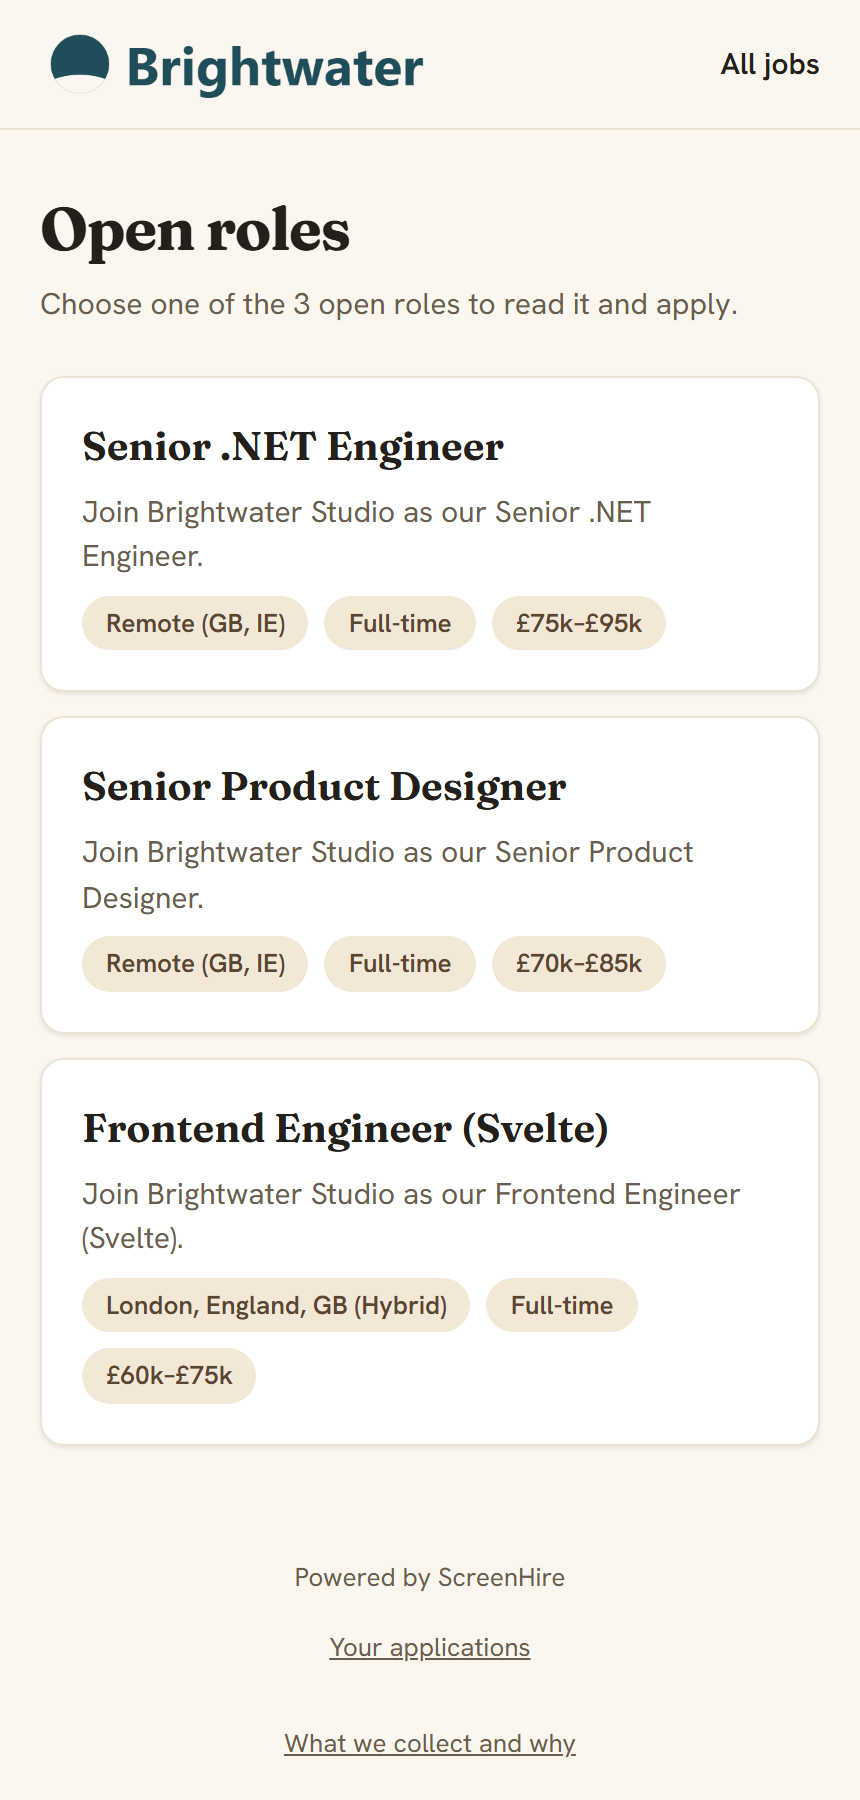
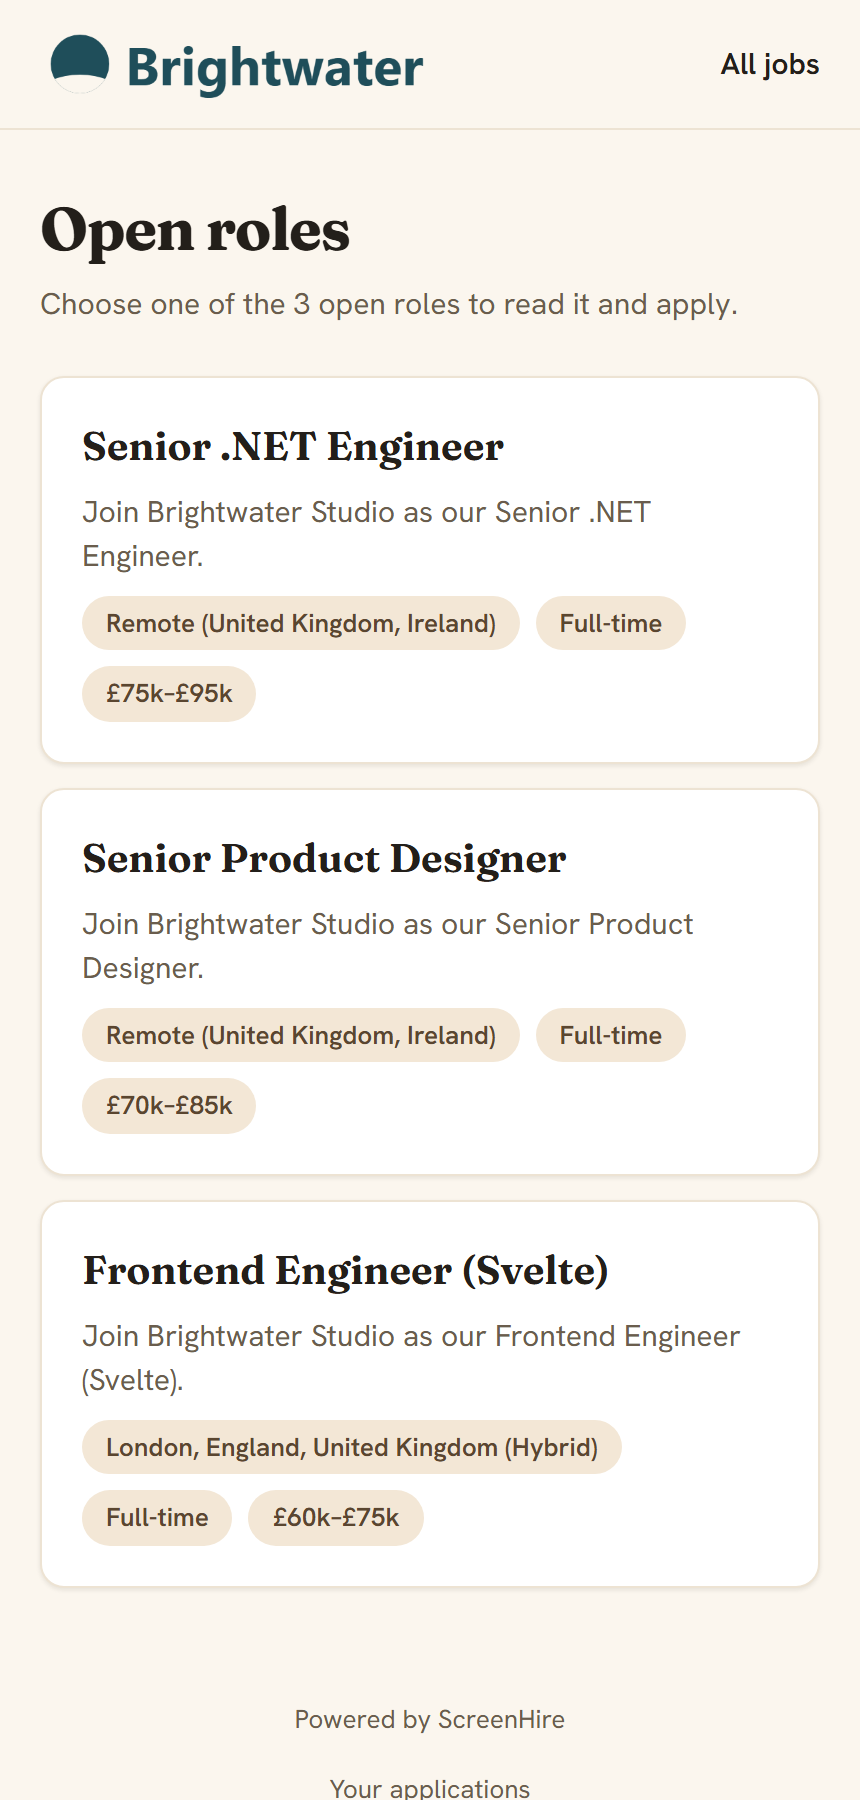
feat(jobs): show a country as a name, not a code, wherever a location is written
JobLocation's label and the feeds share CountryNames, which reads .NET's RegionInfo
English names. Regions stay as given, an unknown code stays a code, and structured
data (JSON-LD, feed country fields) keeps the ISO code. Fixtures, tests, the design
system's example and the marketing pictures that show a location are updated.

Changed region(s): [[0.0302, 0.3111, 0.9674, 0.8089], [0.3326, 0.84, 0.6651, 1.0], [0.1209, 0.84, 0.2419, 0.8711]]

diff --git a/apps/careers/src/lib/format.test.ts b/apps/careers/src/lib/format.test.ts
@@ -47,23 +47,23 @@ describe('formatSalary', () => {
 });
 
 describe('jobFacts', () => {
-  const job = { location: 'London, England, GB', workplaceType: 'Hybrid', employmentType: 'FullTime', salaryMin: 60_000, salaryMax: 75_000, salaryCurrency: 'GBP' };
+  const job = { location: 'London, England, United Kingdom', workplaceType: 'Hybrid', employmentType: 'FullTime', salaryMin: 60_000, salaryMax: 75_000, salaryCurrency: 'GBP' };
 
   it('lists place, contract and pay, in that order, and never more than three', () => {
-    expect(jobFacts(job)).toEqual(['London, England, GB (Hybrid)', 'Full-time', '£60k–£75k']);
+    expect(jobFacts(job)).toEqual(['London, England, United Kingdom (Hybrid)', 'Full-time', '£60k–£75k']);
     expect(jobFacts(job).length).toBeLessThanOrEqual(3);
   });
 
   it('leaves the pay out when there is none', () => {
-    expect(jobFacts({ ...job, salaryMin: null, salaryMax: null })).toEqual(['London, England, GB (Hybrid)', 'Full-time']);
+    expect(jobFacts({ ...job, salaryMin: null, salaryMax: null })).toEqual(['London, England, United Kingdom (Hybrid)', 'Full-time']);
   });
 
   it('names an on-site job by its address alone', () => {
-    expect(jobFacts({ ...job, workplaceType: 'Onsite' })).toEqual(['London, England, GB', 'Full-time', '£60k–£75k']);
+    expect(jobFacts({ ...job, workplaceType: 'Onsite' })).toEqual(['London, England, United Kingdom', 'Full-time', '£60k–£75k']);
   });
 
   it('does not say remote twice when the location already does', () => {
-    expect(jobFacts({ ...job, location: 'Remote (GB, IE)', workplaceType: 'Remote' })).toEqual(['Remote (GB, IE)', 'Full-time', '£60k–£75k']);
+    expect(jobFacts({ ...job, location: 'Remote (United Kingdom, Ireland)', workplaceType: 'Remote' })).toEqual(['Remote (United Kingdom, Ireland)', 'Full-time', '£60k–£75k']);
   });
 
   it('keeps the workplace type in the place when the location does not name it', () => {

diff --git a/apps/careers/src/components/job-card.test.ts b/apps/careers/src/components/job-card.test.ts
@@ -13,7 +13,7 @@ beforeAll(async () => {
 const job = {
   title: 'Service plumber',
   summary: 'Fix leaks, service boilers and fit bathrooms for homes across Leeds.',
-  location: 'Leeds, England, GB',
+  location: 'Leeds, England, United Kingdom',
   workplaceType: 'Onsite',
   employmentType: 'FullTime',
   salaryMin: 34_000,
@@ -32,7 +32,7 @@ describe('JobCard', () => {
     expect(html).toContain('href="/brightwater/jobs/service-plumber"');
     const title = html.indexOf('Service plumber');
     const summary = html.indexOf('Fix leaks, service boilers');
-    const firstChip = html.indexOf('Leeds, England, GB</span>');
+    const firstChip = html.indexOf('Leeds, England, United Kingdom</span>');
     expect(title).toBeGreaterThan(-1);
     expect(summary).toBeGreaterThan(title);
     expect(firstChip).toBeGreaterThan(summary);
@@ -55,7 +55,7 @@ describe('JobCard', () => {
     const html = await render({ workplaceType: 'Hybrid' });
 
     const chips = [...html.matchAll(/<span class="[^"]*\bbg-candidate-chip\b[^"]*">([^<]*)<\/span>/g)].map((match) => match[1]);
-    expect(chips).toEqual(['Leeds, England, GB (Hybrid)', 'Full-time', '£34k–£40k']);
+    expect(chips).toEqual(['Leeds, England, United Kingdom (Hybrid)', 'Full-time', '£34k–£40k']);
   });
 
   it('draws no summary line when the job has none', async () => {

diff --git a/apps/dashboard/src/routes/(app)/jobs-page.test.ts b/apps/dashboard/src/routes/(app)/jobs-page.test.ts
@@ -54,7 +54,7 @@ describe('jobs page', () => {
       // A count or a date that never arrived (nothing here answers the applications request) is blank, and says nothing to
       // a screen reader either: "No candidates" would claim what nobody knows.
       ['Draft', 'Customer Success Lead', '', '', 'Manchester, UK', 'Full-time', 'Oct 19, 2026', ''],
-      ['Open', 'Senior .NET Engineer', '', '', 'Remote (GB, IE)', 'Full-time', 'Oct 18, 2026', ''],
+      ['Open', 'Senior .NET Engineer', '', '', 'Remote (United Kingdom, Ireland)', 'Full-time', 'Oct 18, 2026', ''],
     ]);
     expect(screen.getByRole('link', { name: 'Senior .NET Engineer' })).toHaveAttribute('href', `/jobs/${jobs[1]!.id}`);
     expect(screen.getByRole('heading', { level: 1 })).toHaveTextContent('Jobs');

diff --git a/apps/careers/src/lib/format.ts b/apps/careers/src/lib/format.ts
@@ -27,8 +27,8 @@ export function formatSalary(min?: number | null, max?: number | null, currency?
 }
 
 /**
- * The chips a job shows: at most three, in order. Place (the workplace type goes into it, as "London, GB (Hybrid)",
- * unless the job is on-site or the location already says so, as "Remote (GB, IE)" does), the kind of contract, and the
+ * The chips a job shows: at most three, in order. Place (the workplace type goes into it, as "London, United Kingdom (Hybrid)",
+ * unless the job is on-site or the location already says so, as "Remote (United Kingdom, Ireland)" does), the kind of contract, and the
  * pay when there is one.
  */
 export function jobFacts(job: {

diff --git a/apps/dashboard/src/routes/(app)/jobs/[jobId]/job-page.test.ts b/apps/dashboard/src/routes/(app)/jobs/[jobId]/job-page.test.ts
@@ -22,7 +22,7 @@ const job = {
   workplaceType: 'Remote',
   locations: [],
   applicantLocationRequirements: ['GB', 'IE'],
-  location: 'Remote (GB, IE)',
+  location: 'Remote (United Kingdom, Ireland)',
   salary: { min: 70000, max: 90000, currency: 'GBP', period: 'Year' },
   validThrough: null,
   workflow: { stages, questionnaire: { questions: [] }, automations: [] },

diff --git a/apps/dashboard/src/test-support/fixtures.ts b/apps/dashboard/src/test-support/fixtures.ts
@@ -119,7 +119,7 @@ export const jobs: JobSummary[] = [
     id: '01a157d4-0000-7000-8000-000000000002',
     title: 'Senior .NET Engineer',
     slug: 'senior-dotnet-engineer',
-    location: 'Remote (GB, IE)',
+    location: 'Remote (United Kingdom, Ireland)',
     workplaceType: 'Remote',
     status: 'Open',
     createdAt: '2026-10-18T09:00:00Z',

diff --git a/apps/careers/src/lib/job-posting.test.ts b/apps/careers/src/lib/job-posting.test.ts
@@ -12,7 +12,7 @@ const job = (overrides: Partial<PublicJob> = {}): PublicJob => ({
   id: '0199f0c4-0000-7000-8000-000000000001',
   title: 'Engineer',
   slug: 'engineer',
-  location: 'London, GB',
+  location: 'London, United Kingdom',
   workplaceType: 'Onsite',
   employmentType: 'FullTime',
   salaryMin: 50000,

diff --git a/tests/ScreenHire.UnitTests/Jobs/JobLifecycleTests.cs b/tests/ScreenHire.UnitTests/Jobs/JobLifecycleTests.cs
@@ -311,13 +311,30 @@ public sealed class JobLifecycleTests
     }
 
     [Theory]
-    [InlineData(WorkplaceType.Remote, "Remote (GB, IE)")]
-    [InlineData(WorkplaceType.Hybrid, "London, England, GB; Leeds, GB")]
-    public void The_location_label_reads_from_the_structured_fields(WorkplaceType workplace, string expected)
+    [InlineData(WorkplaceType.Remote, "Remote (United Kingdom, Ireland)")]
+    [InlineData(WorkplaceType.Hybrid, "London, England, United Kingdom; Leeds, United Kingdom")]
+    public void The_location_label_names_the_country_and_keeps_the_region_as_given(WorkplaceType workplace, string expected)
     {
         JobLocation[] locations = [new("London", "England", "GB"), new("Leeds", null, "GB")];
 
         JobLocation.Describe(workplace, locations, ["GB", "IE"]).Should().Be(expected);
+    }
+
+    [Fact]
+    public void The_location_label_covers_a_city_alone_one_remote_country_and_no_remote_countries()
+    {
+        JobLocation.Describe(WorkplaceType.Onsite, [new("Leeds", null, "GB")], []).Should().Be("Leeds, United Kingdom");
+        JobLocation.Describe(WorkplaceType.Onsite, [new(null, null, "US")], []).Should().Be("United States");
+        JobLocation.Describe(WorkplaceType.Remote, [], ["IE"]).Should().Be("Remote (Ireland)");
+        JobLocation.Describe(WorkplaceType.Remote, [], []).Should().Be("Remote");
+    }
+
+    [Fact]
+    public void The_location_label_falls_back_to_the_code_for_a_country_it_does_not_know_and_skips_a_missing_one()
+    {
+        JobLocation.Describe(WorkplaceType.Onsite, [new("Nowhere", null, "ZZ")], []).Should().Be("Nowhere, ZZ");
+        JobLocation.Describe(WorkplaceType.Remote, [], ["GB", "ZZ"]).Should().Be("Remote (United Kingdom, ZZ)");
+        JobLocation.Describe(WorkplaceType.Onsite, [new("Leeds", null, null)], []).Should().Be("Leeds");
     }
 
     private static HiringTemplateDefinition Definition(string firstStage) =>

diff --git a/src/ScreenHire.Domain/Jobs/JobLocation.cs b/src/ScreenHire.Domain/Jobs/JobLocation.cs
@@ -7,17 +7,18 @@ namespace ScreenHire.Domain.Jobs;
 public sealed record JobLocation(string? City, string? Region, string? Country)
 {
     /// <summary>
-    /// A one-line label for lists and page titles, such as "London, England, GB" or "Remote (GB, IE)". Structured data
-    /// (JSON-LD, feeds) uses the fields, never this.
+    /// A one-line label for lists and page titles, such as "London, England, United Kingdom" or "Remote (United Kingdom,
+    /// Ireland)": countries are names, regions stay as given, and a code .NET does not know stays a code. Structured
+    /// data (JSON-LD, feeds) uses the fields and the ISO code, never this.
     /// </summary>
     public static string Describe(WorkplaceType workplaceType, IReadOnlyList<JobLocation> locations, IReadOnlyList<string> applicantLocationRequirements)
     {
         if (workplaceType == WorkplaceType.Remote)
         {
-            return applicantLocationRequirements.Count == 0 ? "Remote" : $"Remote ({string.Join(", ", applicantLocationRequirements)})";
+            return applicantLocationRequirements.Count == 0 ? "Remote" : $"Remote ({string.Join(", ", applicantLocationRequirements.Select(CountryNames.Name))})";
         }
 
-        return string.Join("; ", locations.Select(l => string.Join(", ", new[] { l.City, l.Region, l.Country }.Where(p => !string.IsNullOrWhiteSpace(p)))));
+        return string.Join("; ", locations.Select(l => string.Join(", ", new[] { l.City, l.Region, CountryNames.Name(l.Country) }.Where(p => !string.IsNullOrWhiteSpace(p)))));
     }
 }
 

diff --git a/tests/ScreenHire.UnitTests/Jobs/JobMappingsTests.cs b/tests/ScreenHire.UnitTests/Jobs/JobMappingsTests.cs
@@ -15,7 +15,7 @@ public sealed class JobMappingsTests
         var publicJob = job.ToPublicJob("https://careers.example.com/acme/jobs/frontend-engineer-svelte");
 
         publicJob.Should().BeEquivalentTo(new PublicJob(
-            job.Id, "Frontend Engineer (Svelte)", "frontend-engineer-svelte", "London, England, GB", WorkplaceType.Hybrid,
+            job.Id, "Frontend Engineer (Svelte)", "frontend-engineer-svelte", "London, England, United Kingdom", WorkplaceType.Hybrid,
             EmploymentType.Contract, 60_000, 75_000, "GBP", Published, "<p>Svelte all day.</p>", "Svelte all day.", "Engineering",
             [new JobLocation("London", "England", "GB")], [], SalaryPeriod.Year, null, Published,
             "https://careers.example.com/acme/jobs/frontend-engineer-svelte"));
@@ -63,7 +63,7 @@ public sealed class JobMappingsTests
         var summary = job.ToSummary(lastChange: null);
 
         summary.Should().BeEquivalentTo(new JobSummary(
-            job.Id, "Frontend Engineer (Svelte)", "frontend-engineer-svelte", "London, England, GB", WorkplaceType.Hybrid,
+            job.Id, "Frontend Engineer (Svelte)", "frontend-engineer-svelte", "London, England, United Kingdom", WorkplaceType.Hybrid,
             JobStatus.Open, job.CreatedAt, Published, EmploymentType.Contract, "Engineering", false,
             new LastUpdate(job.UpdatedAt ?? job.CreatedAt, null)));
     }

diff --git a/src/ScreenHire.Domain/Jobs/CountryNames.cs b/src/ScreenHire.Domain/Jobs/CountryNames.cs
@@ -1,0 +1,33 @@
+using System.Globalization;
+
+namespace ScreenHire.Domain.Jobs;
+
+/// <summary>
+/// The English name of a country for text people read. Structured data and storage keep the ISO 3166-1 alpha-2 code;
+/// only prose, labels and evidence lines use the name. The names come from .NET's <see cref="RegionInfo"/>, so there is no
+/// list to keep (<c>System.Globalization</c> is the base class library, not a framework).
+/// </summary>
+public static class CountryNames
+{
+    /// <summary>
+    /// <c>United Kingdom</c> for <c>GB</c>. A blank code gives an empty string. An unknown code, or a runtime without
+    /// region data, gives the code back, which still tells a reader something.
+    /// </summary>
+    public static string Name(string? code)
+    {
+        if (string.IsNullOrWhiteSpace(code))
+        {
+            return "";
+        }
+
+        var trimmed = code.Trim();
+        try
+        {
+            return new RegionInfo(trimmed).EnglishName;
+        }
+        catch (ArgumentException)
+        {
+            return trimmed;
+        }
+    }
+}

diff --git a/src/ScreenHire.Application/Distribution/Feeds/FeedAdapter.cs b/src/ScreenHire.Application/Distribution/Feeds/FeedAdapter.cs
@@ -93,23 +93,7 @@ internal static class FeedXml
     public static string Number(decimal value) => value.ToString("0.##", CultureInfo.InvariantCulture);
 
     /// <summary>The English name of an ISO 3166-1 alpha-2 country, such as <c>United Kingdom</c> for <c>GB</c>.</summary>
-    public static string CountryName(string? code)
-    {
-        if (string.IsNullOrWhiteSpace(code))
-        {
-            return "";
-        }
-
-        try
-        {
-            return new RegionInfo(code).EnglishName;
-        }
-        catch (ArgumentException)
-        {
-            // An unknown code, or a runtime without region data: the code is still meaningful to a board.
-            return code;
-        }
-    }
+    public static string CountryName(string? code) => CountryNames.Name(code);
 
     /// <summary>
     /// Where the job is, for one-line location fields: the first location, or for a remote job the first country
